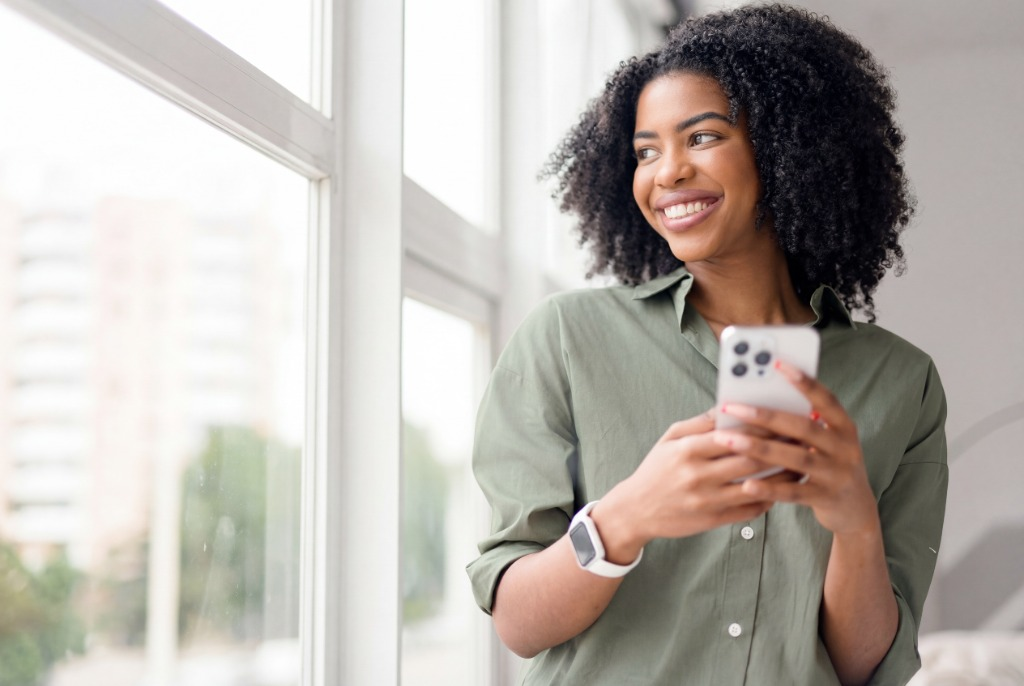
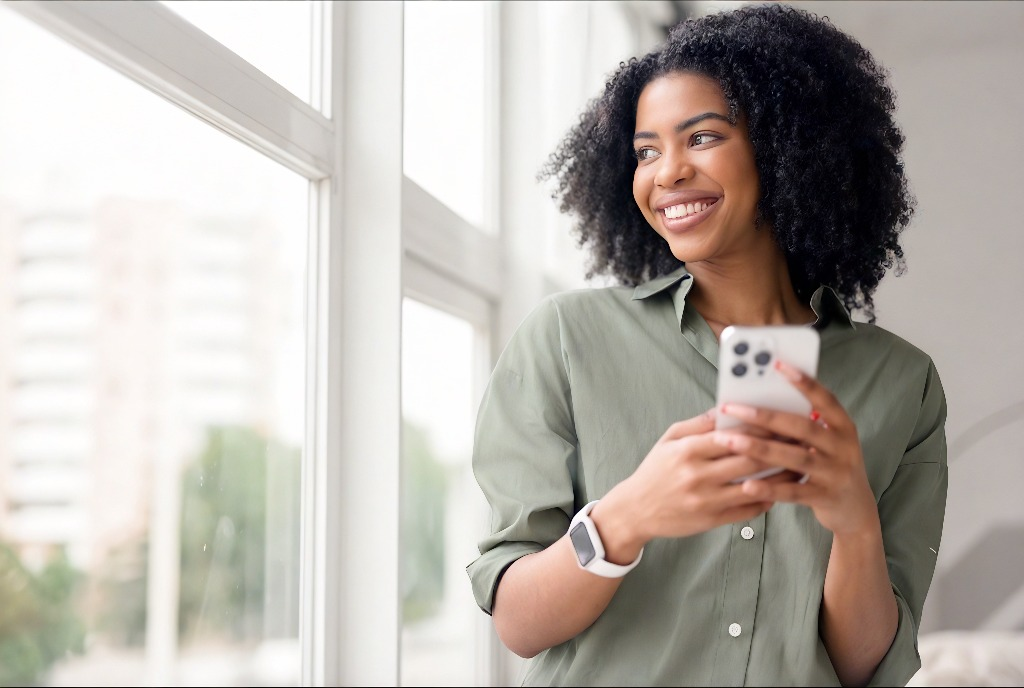
Hero High-Fidelity: restored original image quality and color on subject

diff --git a/src/components/home/Hero.tsx b/src/components/home/Hero.tsx
@@ -19,19 +19,22 @@ export function Hero() {
 
   return (
     <section className="relative min-h-[85vh] flex items-center overflow-hidden bg-white">
-      {/* Background Image with Subject on Right - Adjusted position for full face visibility */}
+      {/* 100% Original High-Res Background Image - No filters, no opacity reduction */}
       <div className="absolute inset-0 z-0">
         <div 
-          className="absolute inset-0 bg-[url('/hero-bg.jpg')] bg-cover bg-no-repeat lg:bg-right-top"
-          style={{ backgroundPosition: '85% 0%' }} // Forced to top to keep heads/eyes visible
+          className="absolute inset-0 bg-[url('/hero-bg.jpg')] bg-cover bg-no-repeat"
+          style={{ backgroundPosition: 'center right' }}
         />
         
-        {/* Refined Gradient Overlay for optimal readability and image clarity */}
+        {/* Strictly Localized Overlay - ONLY on the left, fading to ZERO before the subject */}
         <div className="absolute inset-0 z-10">
-          {/* Solid base for text on the far left */}
-          <div className="absolute inset-y-0 left-0 w-full sm:w-1/3 bg-white" />
-          {/* Smooth transition from solid white to transparent */}
-          <div className="absolute inset-y-0 left-0 sm:left-1/3 w-full sm:w-2/3 bg-gradient-to-r from-white via-white/50 to-transparent" />
+          {/* Base solid white for text readability (left 35%) */}
+          <div className="absolute inset-y-0 left-0 w-[40%] bg-white hidden lg:block" />
+          {/* Smooth transition from solid white to 100% transparent (ending at 65%) */}
+          <div className="absolute inset-y-0 left-0 lg:left-[40%] w-full lg:w-[25%] bg-gradient-to-r from-white to-transparent" />
+          
+          {/* Mobile Overlay (more centered/full for readability) */}
+          <div className="absolute inset-0 bg-white/60 lg:hidden" />
         </div>
       </div>
       
@@ -65,7 +68,7 @@ export function Hero() {
                   initial={{ opacity: 0, x: -20 }}
                   animate={{ opacity: 1, x: 0 }}
                   transition={{ duration: 0.6, delay: 0.8 }}
-                  className="bg-white/40 backdrop-blur-xl px-4 py-2.5 rounded-[12px] shadow-[0_8px_32px_rgba(37,99,235,0.15)] border border-white/20 flex items-center gap-2.5"
+                  className="bg-white/60 backdrop-blur-xl px-4 py-2.5 rounded-[12px] shadow-[0_8px_32px_rgba(37,99,235,0.1)] border border-white/20 flex items-center gap-2.5"
                 >
                    <Shield className="w-4 h-4 text-[#2563eb]" />
                    <span className="text-xs font-medium text-[#1e3a5f] whitespace-nowrap">Batterie testée +85%</span>
@@ -75,7 +78,7 @@ export function Hero() {
                   initial={{ opacity: 0, x: -20 }}
                   animate={{ opacity: 1, x: 0 }}
                   transition={{ duration: 0.6, delay: 1.0 }}
-                  className="bg-white/40 backdrop-blur-xl px-4 py-2.5 rounded-[12px] shadow-[0_8px_32px_rgba(37,99,235,0.15)] border border-white/20 flex items-center gap-2.5"
+                  className="bg-white/60 backdrop-blur-xl px-4 py-2.5 rounded-[12px] shadow-[0_8px_32px_rgba(37,99,235,0.1)] border border-white/20 flex items-center gap-2.5"
                 >
                    <CheckCircle2 className="w-4 h-4 text-[#2563eb]" />
                    <span className="text-xs font-medium text-[#1e3a5f] whitespace-nowrap">Garantie 24 mois</span>
@@ -101,7 +104,7 @@ export function Hero() {
             </motion.div>
 
             {/* Trust Bar */}
-            <motion.div variants={item} className="flex flex-wrap items-center justify-start gap-x-6 gap-y-3 text-sm font-medium text-slate-500 bg-white/20 backdrop-blur-md p-4 rounded-2xl border border-white/30">
+            <motion.div variants={item} className="flex flex-wrap items-center justify-start gap-x-6 gap-y-3 text-sm font-medium text-slate-500 bg-white/40 backdrop-blur-md p-4 rounded-2xl border border-white/30">
               <div className="flex items-center gap-1.5">
                 <Star className="w-4 h-4 fill-yellow-400 text-yellow-400" />
                 <span>4.9/5 Avis</span>
